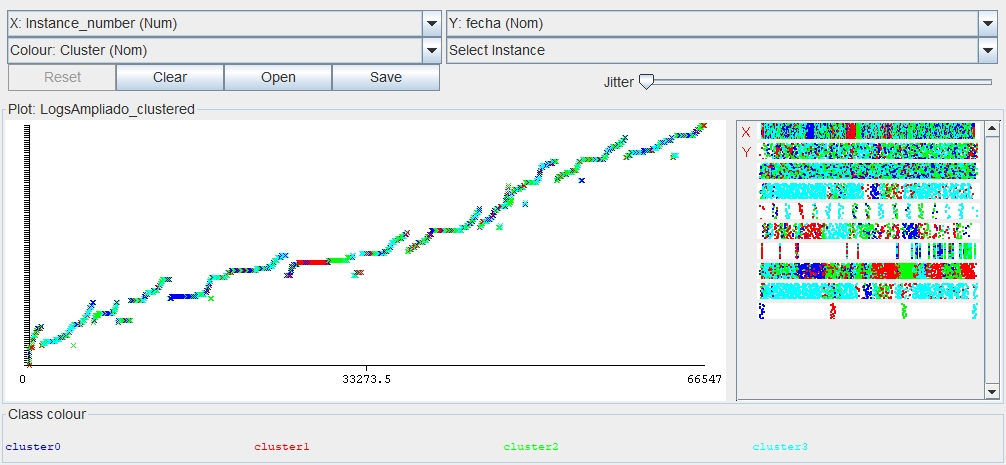
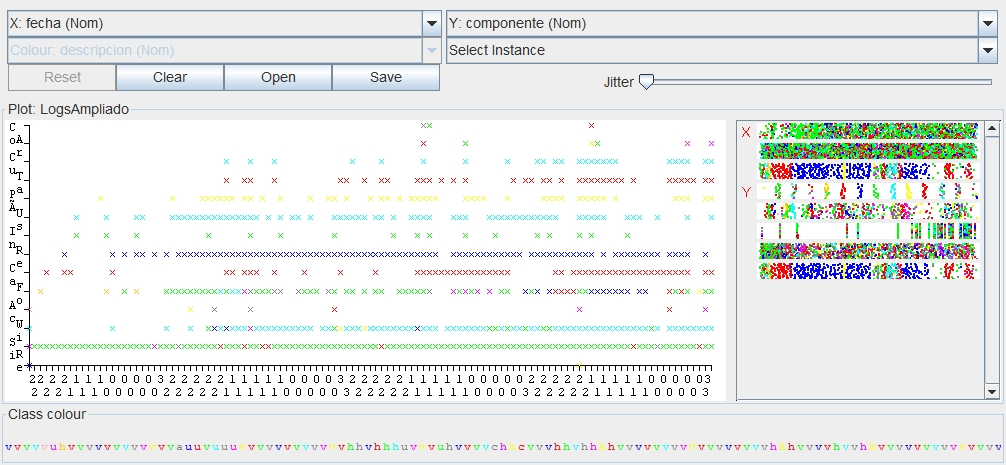
Filtro fecha en script python.

diff --git a/JavaCVLogs/python/limpiar.py b/JavaCVLogs/python/limpiar.py
@@ -2,6 +2,7 @@
 import xlrd
 import unicodecsv as csv
 import sys
+from datetime import datetime, timedelta
 
 # Lectura del Excel con los logs
 workbook = xlrd.open_workbook('./python/ficheros/' + sys.argv[1] + '.xlsx')
@@ -15,44 +16,58 @@ with open('LogsAmpliado.csv', 'wb') as csvfile:
         # Escritura en csv con las columnas ampliadas de la descripción
         while curr_row < num_rows:
 
-                # Inicialización de los tres campos.
-                a1 = ""
-                a2 = ""
-                a3 = "NULL"
-
                 # Indice++
                 curr_row += 1
-
-                # Obtención del campo descripción e inserción de las palabras en un array
-                description = worksheet.cell_value(rowx=curr_row, colx=4)
-                words = description.split(" ")
-
-                # Obtención de campo "Código de usuario"
-                a1 = int(words[4][1:-1])
-
-                # Obtención de campo "Descripción del evento"
-                i = 5
-                while i < len(words) :
-                        if (words[i - 1] == "course") :
-                                break
-                        a2 += words[i] + " "
-                        i = i + 1
-                a2 = a2.rstrip()
-
-                # Obtención del campo "Código de módulo"
-                if (i < len(words) and (words[i] == "module")):
-                        a3 = int(words[len(words) - 1][1:-2])
                 
-                # Generación de la fila con todos los campos, incluidos los ya existentes
-                n1 = worksheet.cell_value(rowx=curr_row, colx=0)
-                n2 = n1[11:]
-                n1 = n1[1:10]
+                # Inicialización de los campos ya existentes
+                fecha = worksheet.cell_value(rowx=curr_row, colx=0)
+                print(fecha)
+                hora = fecha.split(" ")[1]
+                fecha = fecha.split(" ")[0]
+                if (len(fecha) == 9):
+                        fecha = "0" + fecha
                 n3 = worksheet.cell_value(rowx=curr_row, colx=1)
                 if ('' in n3):
                         n3 = n3.replace("", "") # Elimina caracteres especiales
                 n4 = worksheet.cell_value(rowx=curr_row, colx=2)
                 n5 = worksheet.cell_value(rowx=curr_row, colx=3)
-                row = [n1, n2, n3, n4, n5, a1, a2, a3]
 
-                # Escritura de todos los campos en csv
-                spamwriter.writerow(row)
+                analizar = True
+
+                if (sys.argv[2] == "fecha"):
+                   fechaInicio = datetime(int(sys.argv[3][6:]),int(sys.argv[3][3:5]),int(sys.argv[3][0:2]))
+                   fechaFin = datetime(int(sys.argv[4][6:]),int(sys.argv[4][3:5]),int(sys.argv[4][0:2]))
+                   if (fechaInicio > datetime(int(fecha[6:]),int(fecha[3:5]),int(fecha[0:2])) or datetime(int(fecha[6:]),int(fecha[3:5]),int(fecha[0:2])) > fechaFin):
+                           analizar = False 
+
+                if (analizar):
+                        # Inicialización de los tres campos nuevos.
+                        a1 = ""
+                        a2 = ""
+                        a3 = "NULL"
+
+                        # Obtención del campo descripción e inserción de las palabras en un array
+                        description = worksheet.cell_value(rowx=curr_row, colx=4)
+                        words = description.split(" ")
+
+                        # Obtención de campo "Código de usuario"
+                        a1 = int(words[4][1:-1])
+
+                        # Obtención de campo "Descripción del evento"
+                        i = 5
+                        while i < len(words) :
+                                if (words[i - 1] == "course") :
+                                        break
+                                a2 += words[i] + " "
+                                i = i + 1
+                        a2 = a2.rstrip()
+
+                        # Obtención del campo "Código de módulo"
+                        if (i < len(words) and (words[i] == "module")):
+                                a3 = int(words[len(words) - 1][1:-2])
+                        
+                        # Generación de la fila con todos los campos, incluidos los ya existentes
+                        row = [fecha, hora, n3, n4, n5, a1, a2, a3]
+
+                        # Escritura de todos los campos en csv
+                        spamwriter.writerow(row)

diff --git a/JavaCVLogs/src/views/ResultsAL.java b/JavaCVLogs/src/views/ResultsAL.java
@@ -73,12 +73,13 @@ public class ResultsAL implements ActionListener {
 	                 break;
         }
         
+        String filtro = home.getInputFiltro();
         Controller controlador = Controller.getInstance();
         
         if (home.getInputAlgoritmo().equals("Visualize"))
-        	controlador.obtainResultsVisualize(inputF, x, y, c);
+        	controlador.obtainResultsVisualize(inputF, x, y, c, filtro);
         else if (home.getInputAlgoritmo().equals("Clustering"))
-        	controlador.obtainResultsClustering(inputF, x, y, numClusters);
+        	controlador.obtainResultsClustering(inputF, x, y, numClusters, filtro);
         
         /*ResultGUI result = new ResultGUI(parametroX, parametroY, parametroC);
 		result.start();*/

diff --git a/JavaCVLogs/src/controller/Controller.java b/JavaCVLogs/src/controller/Controller.java
@@ -7,7 +7,7 @@ public class Controller {
 	
 	private static Controller INSTANCE = null;
 	
-	public void obtainResultsVisualize(String fichero, int x, int y, int c) {
+	public void obtainResultsVisualize(String fichero, int x, int y, int c, String filtro) {
 		LogsCleaner main = new LogsCleaner();
 		main.cleanLogs(fichero);
 		
@@ -16,7 +16,7 @@ public class Controller {
 			
 	}
 	
-	public void obtainResultsClustering(String fichero, int x, int y, int numClusters) {
+	public void obtainResultsClustering(String fichero, int x, int y, int numClusters, String filtro) {
 		LogsCleaner main = new LogsCleaner();
 		main.cleanLogs(fichero);
 		

diff --git a/JavaCVLogs/src/sa/LogsCleaner.java b/JavaCVLogs/src/sa/LogsCleaner.java
@@ -8,7 +8,7 @@ public class LogsCleaner {
 	public void cleanLogs(String arg) {
 		final String dir = System.getProperty("user.dir");
 		try {
-			Process proc = Runtime.getRuntime().exec("python " + dir + "\\python\\limpiar.py " + arg);
+			Process proc = Runtime.getRuntime().exec("python " + dir + "\\python\\limpiar.py " + arg + " fecha 30/03/2017 26/07/2017");
 			BufferedReader stdInput = new BufferedReader(new 
 				     InputStreamReader(proc.getInputStream()));
 

diff --git a/JavaCVLogs/src/views/HomeGUI.java b/JavaCVLogs/src/views/HomeGUI.java
@@ -248,6 +248,14 @@ public class HomeGUI {
 		}
 	}
 	
+	public String getInputFiltro() {
+		return inputFiltro.getSelectedItem().toString();
+	}
+
+	public void setInputFiltro(JComboBox<String> inputFiltro) {
+		this.inputFiltro = inputFiltro;
+	}
+
 	public void start() {
 		mainFrame.setVisible(true);
 	}
